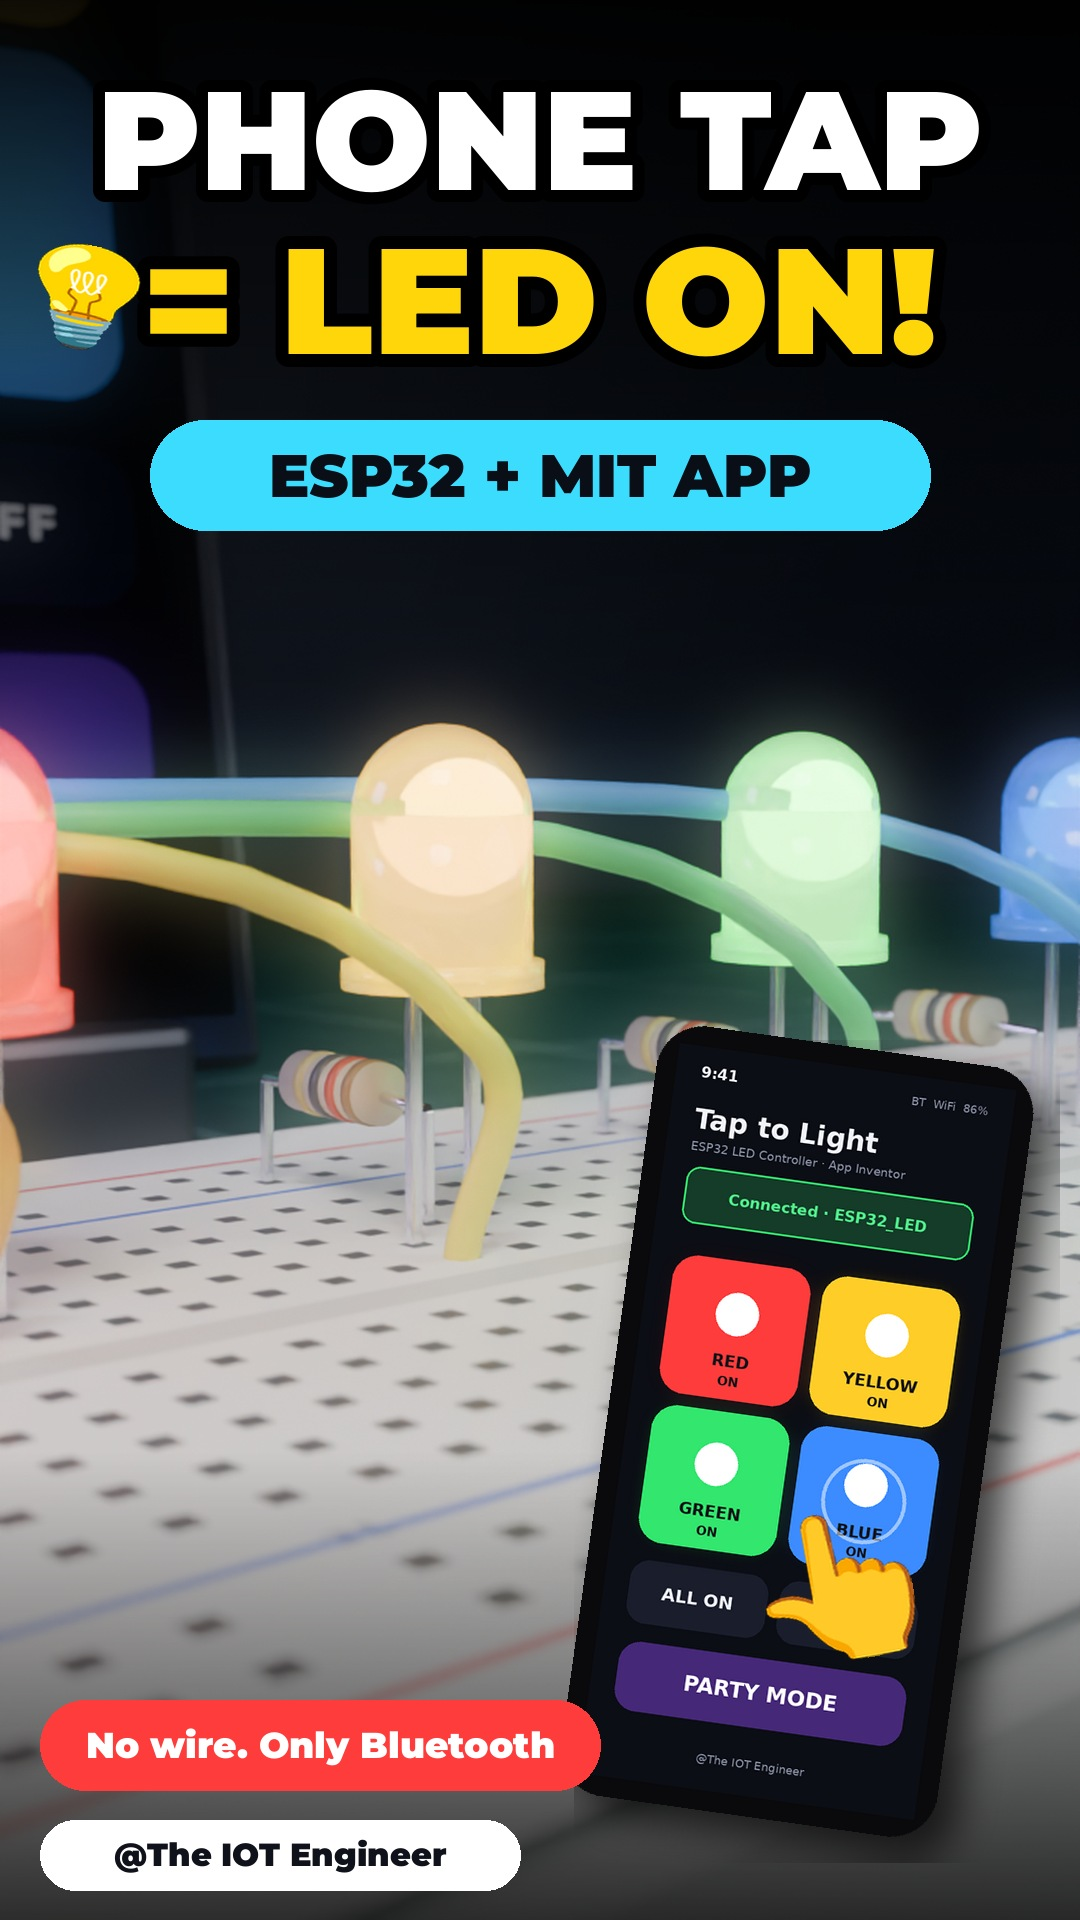
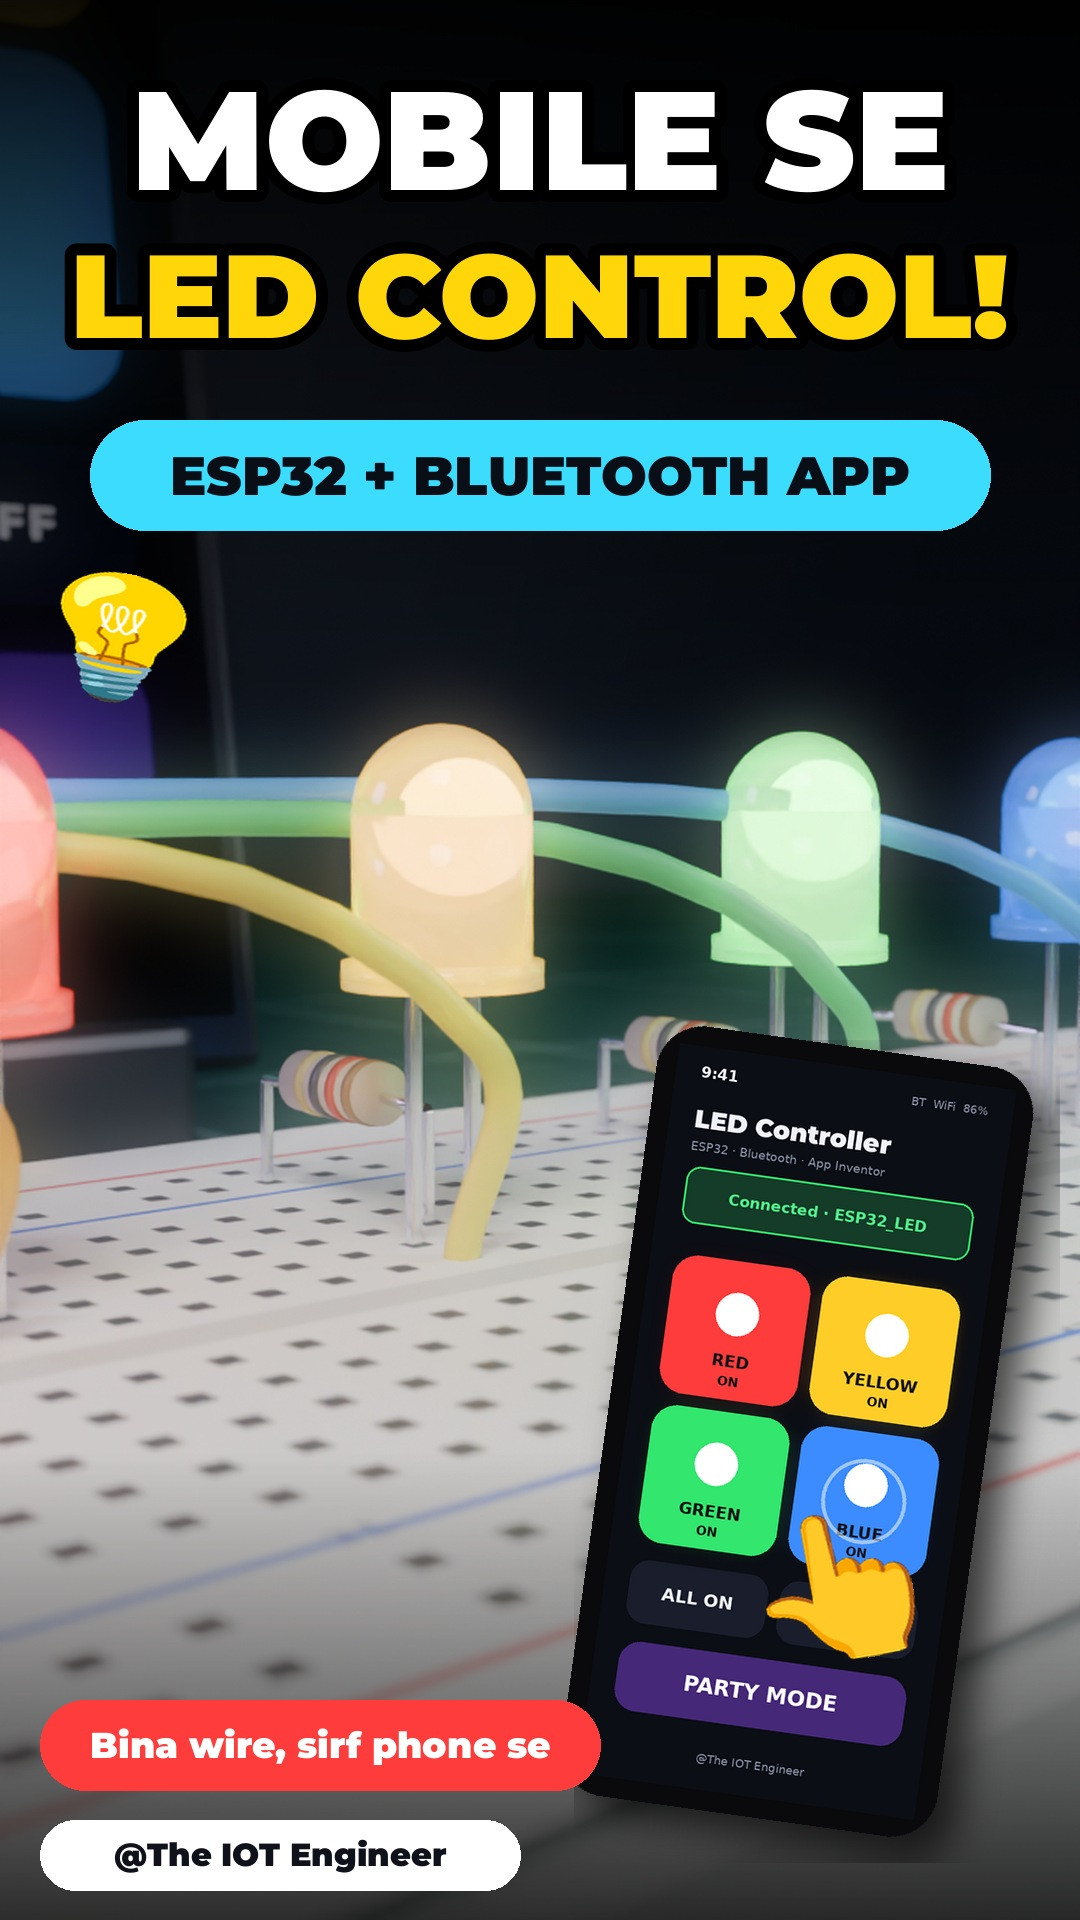
edit7: new thumbnail wording (Mobile se LED Control)
Claude-Session: https://claude.ai/code/session_01CESTBAn4oodXJcbmRSTh5m

diff --git a/edit7/thumbnail/make_thumbnail.py b/edit7/thumbnail/make_thumbnail.py
@@ -35,7 +35,13 @@ def text(d, xy, s, size, fill, stroke=10):
 
 
 # phone inset (bottom-right, tilted)
-app = Image.open(APP).convert("RGBA").resize((340, 737), Image.LANCZOS)
+src = Image.open(APP).convert("RGBA")
+ad = ImageDraw.Draw(src)                                # retitle the app for the thumbnail
+ad.rectangle((20, 80, 540, 178), fill=(12, 14, 22))
+ad.text((40, 115), "LED Controller", font=ImageFont.truetype(FONT, 40), fill=(240, 242, 250), anchor="lm")
+ad.text((40, 158), "ESP32 · Bluetooth · App Inventor", font=ImageFont.truetype("/usr/share/fonts/truetype/dejavu/DejaVuSans.ttf", 19),
+        fill=(140, 148, 168), anchor="lm")
+app = src.resize((340, 737), Image.LANCZOS)
 ph = Image.new("RGBA", (380, 777), (10, 10, 12, 255))
 ph.alpha_composite(app, (20, 20))
 m = Image.new("L", ph.size, 0)
@@ -49,13 +55,13 @@ canvas.alpha_composite(ph, (W - ph.width - 40, 1020))
 canvas.alpha_composite(emoji("👆", 150, 10), (W - 330, 1500))
 
 d = ImageDraw.Draw(canvas)
-text(d, (W // 2, 140), "PHONE TAP", 140, WHT, 12)
-text(d, (W // 2, 300), "= LED ON!", 150, YEL, 13)
-canvas.alpha_composite(emoji("💡", 105, -12), (22, 235))
-d.rounded_rectangle((150, 420, W - 150, 530), 55, fill=CYAN)
-d.text((W // 2, 475), "ESP32 + MIT APP", font=ImageFont.truetype(FONT, 60), fill=(10, 14, 22), anchor="mm")
+text(d, (W // 2, 140), "MOBILE SE", 140, WHT, 12)
+text(d, (W // 2, 295), "LED CONTROL!", 118, YEL, 12)
+canvas.alpha_composite(emoji("💡", 130, -12), (40, 560))
+d.rounded_rectangle((90, 420, W - 90, 530), 55, fill=CYAN)
+d.text((W // 2, 475), "ESP32 + BLUETOOTH APP", font=ImageFont.truetype(FONT, 54), fill=(10, 14, 22), anchor="mm")
 d.rounded_rectangle((40, 1700, 600, 1790), 45, fill=(255, 60, 60))
-d.text((320, 1745), "No wire. Only Bluetooth", font=ImageFont.truetype(FONT, 36), fill=WHT, anchor="mm")
+d.text((320, 1745), "Bina wire, sirf phone se", font=ImageFont.truetype(FONT, 36), fill=WHT, anchor="mm")
 d.rounded_rectangle((40, 1820, 520, 1890), 35, fill=(255, 255, 255))
 d.text((280, 1855), "@The IOT Engineer", font=ImageFont.truetype(FONT, 32), fill=(15, 18, 26), anchor="mm")
 canvas.convert("RGB").save(OUT, quality=93)
